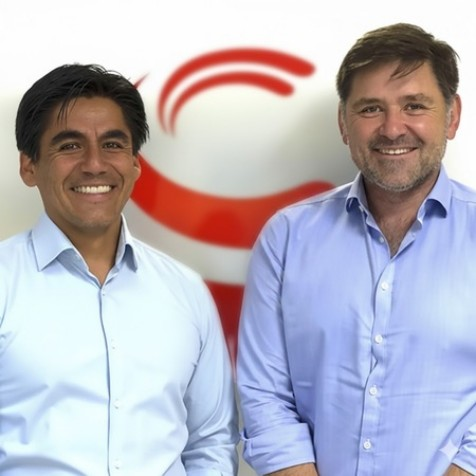
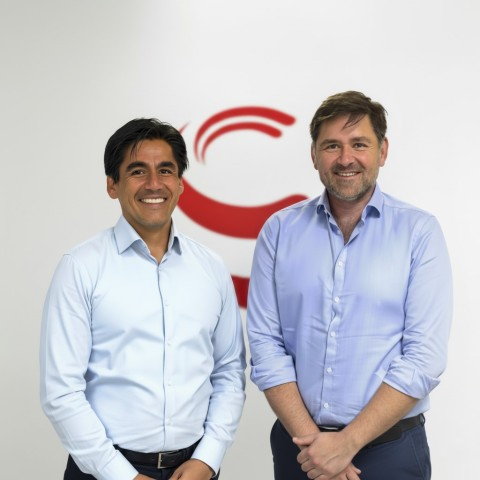
corrección imagen fundadores

diff --git a/index.html b/index.html
@@ -153,8 +153,9 @@
           </div>
           <div class="about-text">
             <h2>Sobre nosotros</h2>
-            <p>Cool Power es una empresa chileno-alemana.</p>
-            <p>Desarrollamos e implementamos soluciones fotovoltaicas a medida para tu empresa.</p>
+            <p>Somos una empresa chileno-alemana, y desde 2019 desarrollamos, construimos y operamos proyectos solares de alto rendimiento en Chile, adaptados a las necesidades reales de cada cliente.</p>
+            <p>Nos encargamos de todo el proceso — desde la planificación, asesoría de financiamiento hasta la instalación y el mantenimiento — para que tú puedas enfocarte en lo que mejor sabes hacer: hacer crecer tu negocio.
+</p>
             <a href="nosotros.html" class="btn btn-primary">Saber más</a>
           </div>
         </div>

diff --git a/css/styles.css b/css/styles.css
@@ -746,13 +746,13 @@ a:hover{color:var(--brand-dark)}
   display: grid;
   grid-template-columns: auto 1fr; /* La imagen toma su espacio, el texto el resto */
   align-items: center;
-  gap: 48px;
+  gap: 80px;
 }
 
 .about-image img {
-  width: 150px; /* Tamaño aumentado */
-  height: 150px;
-  border-radius: 50%; /* Forma circular */
+  width: 350px; /* Tamaño modificado */
+  height: 350px;
+  border-radius: 50%; /* Ajustado para ser un círculo perfecto */
   object-fit: cover; /* Asegura que la imagen cubra el círculo sin deformarse */
   box-shadow: var(--shadow);
 }
